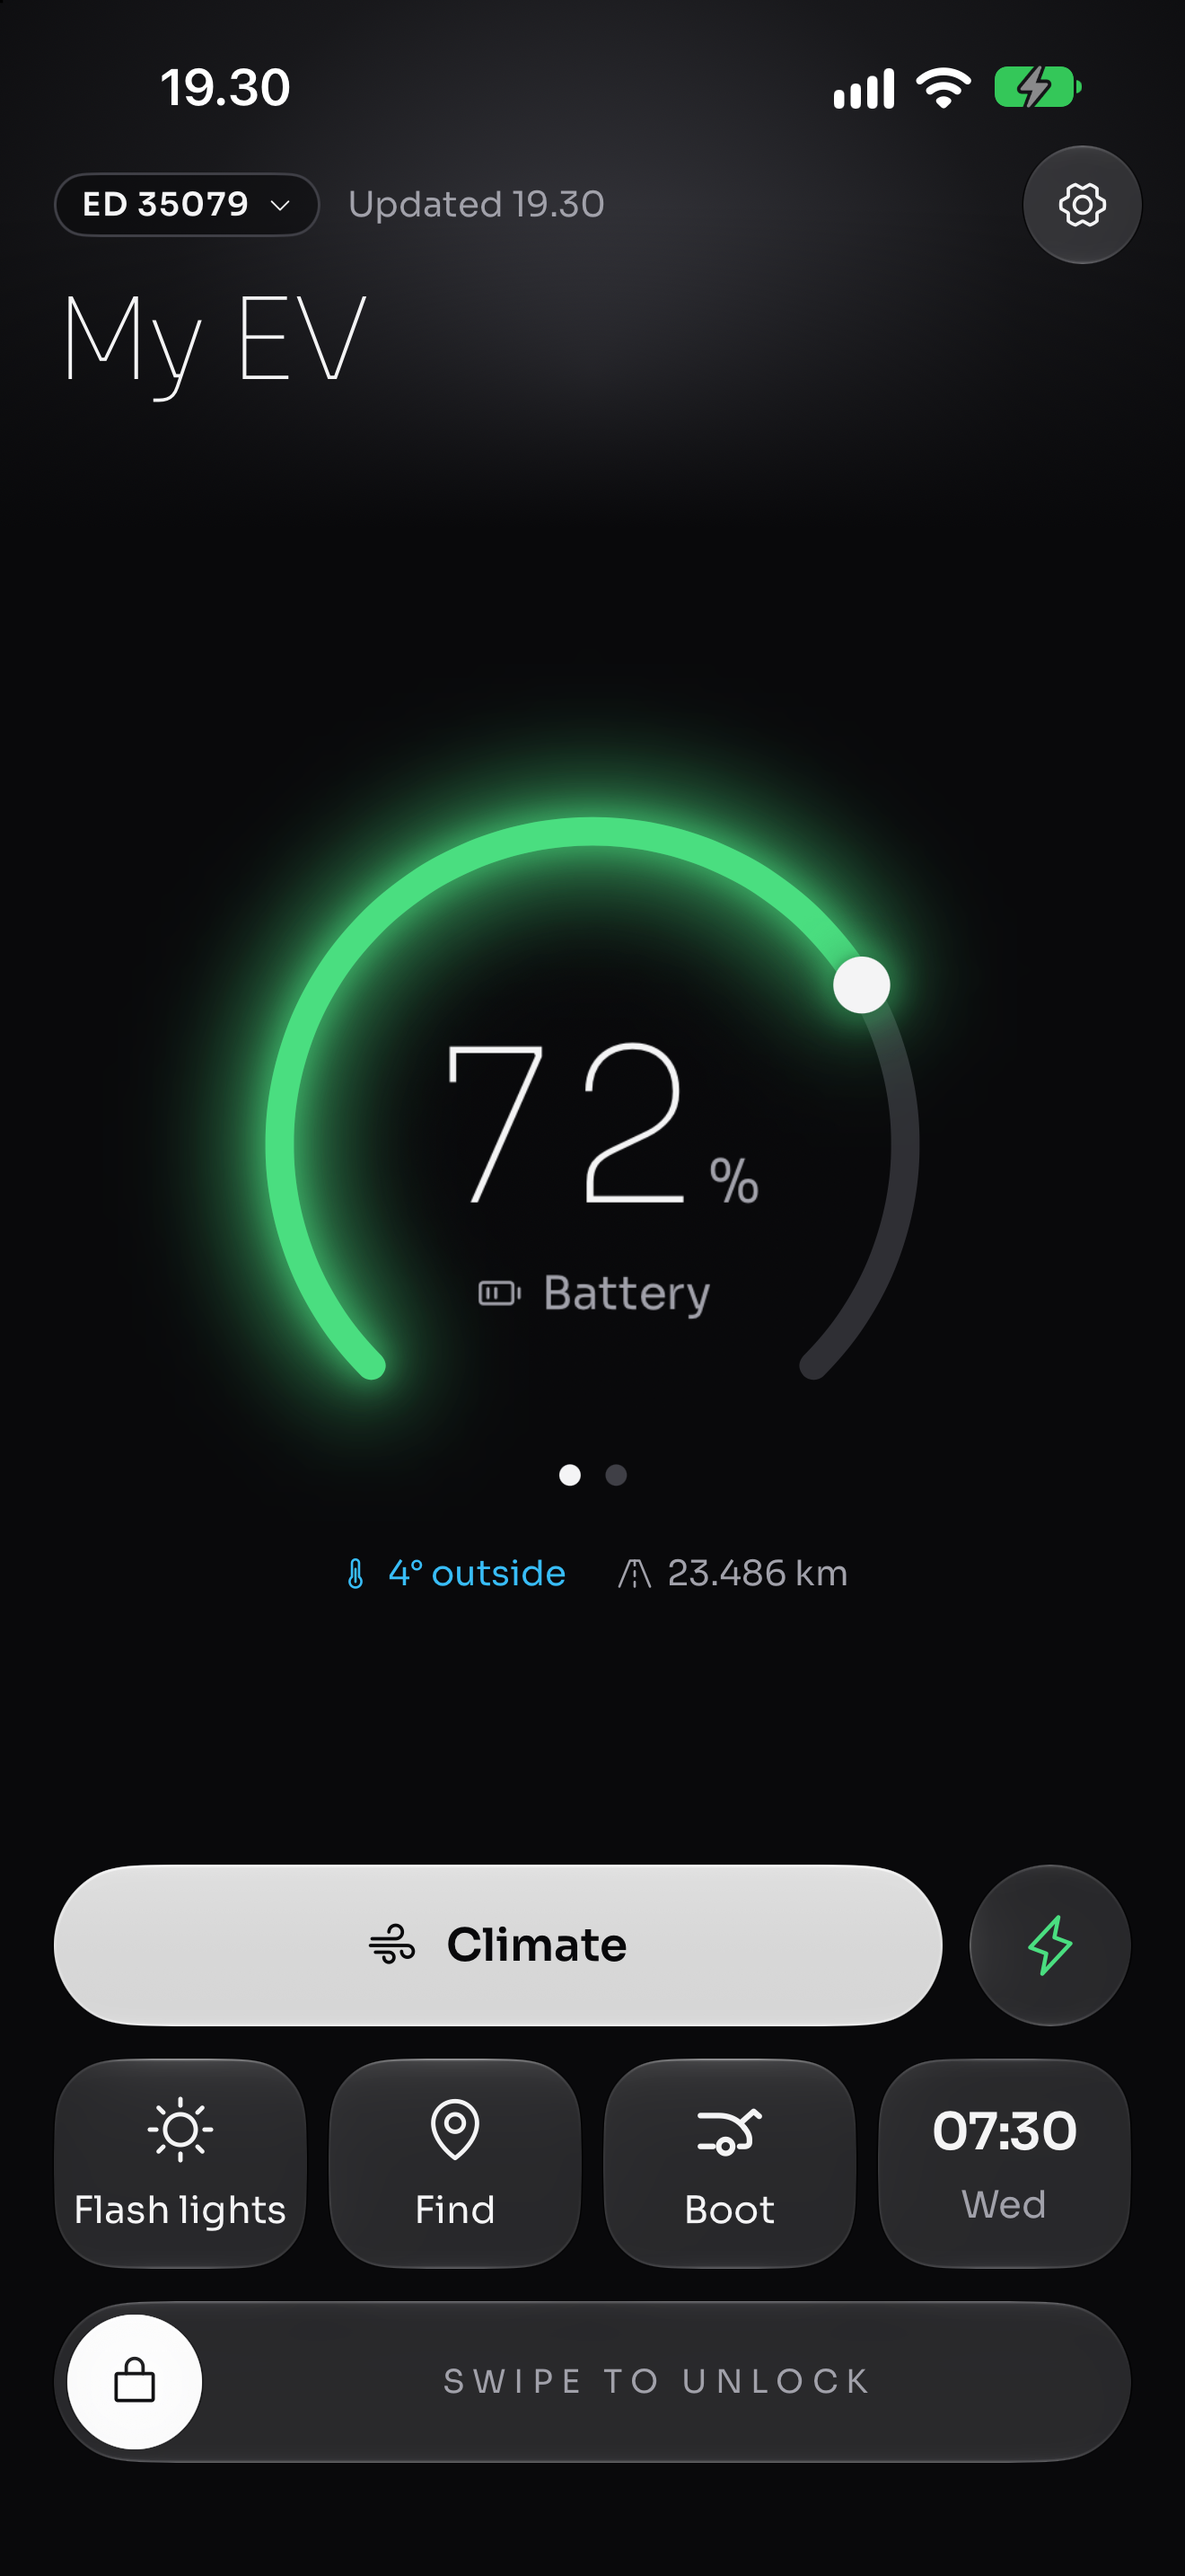
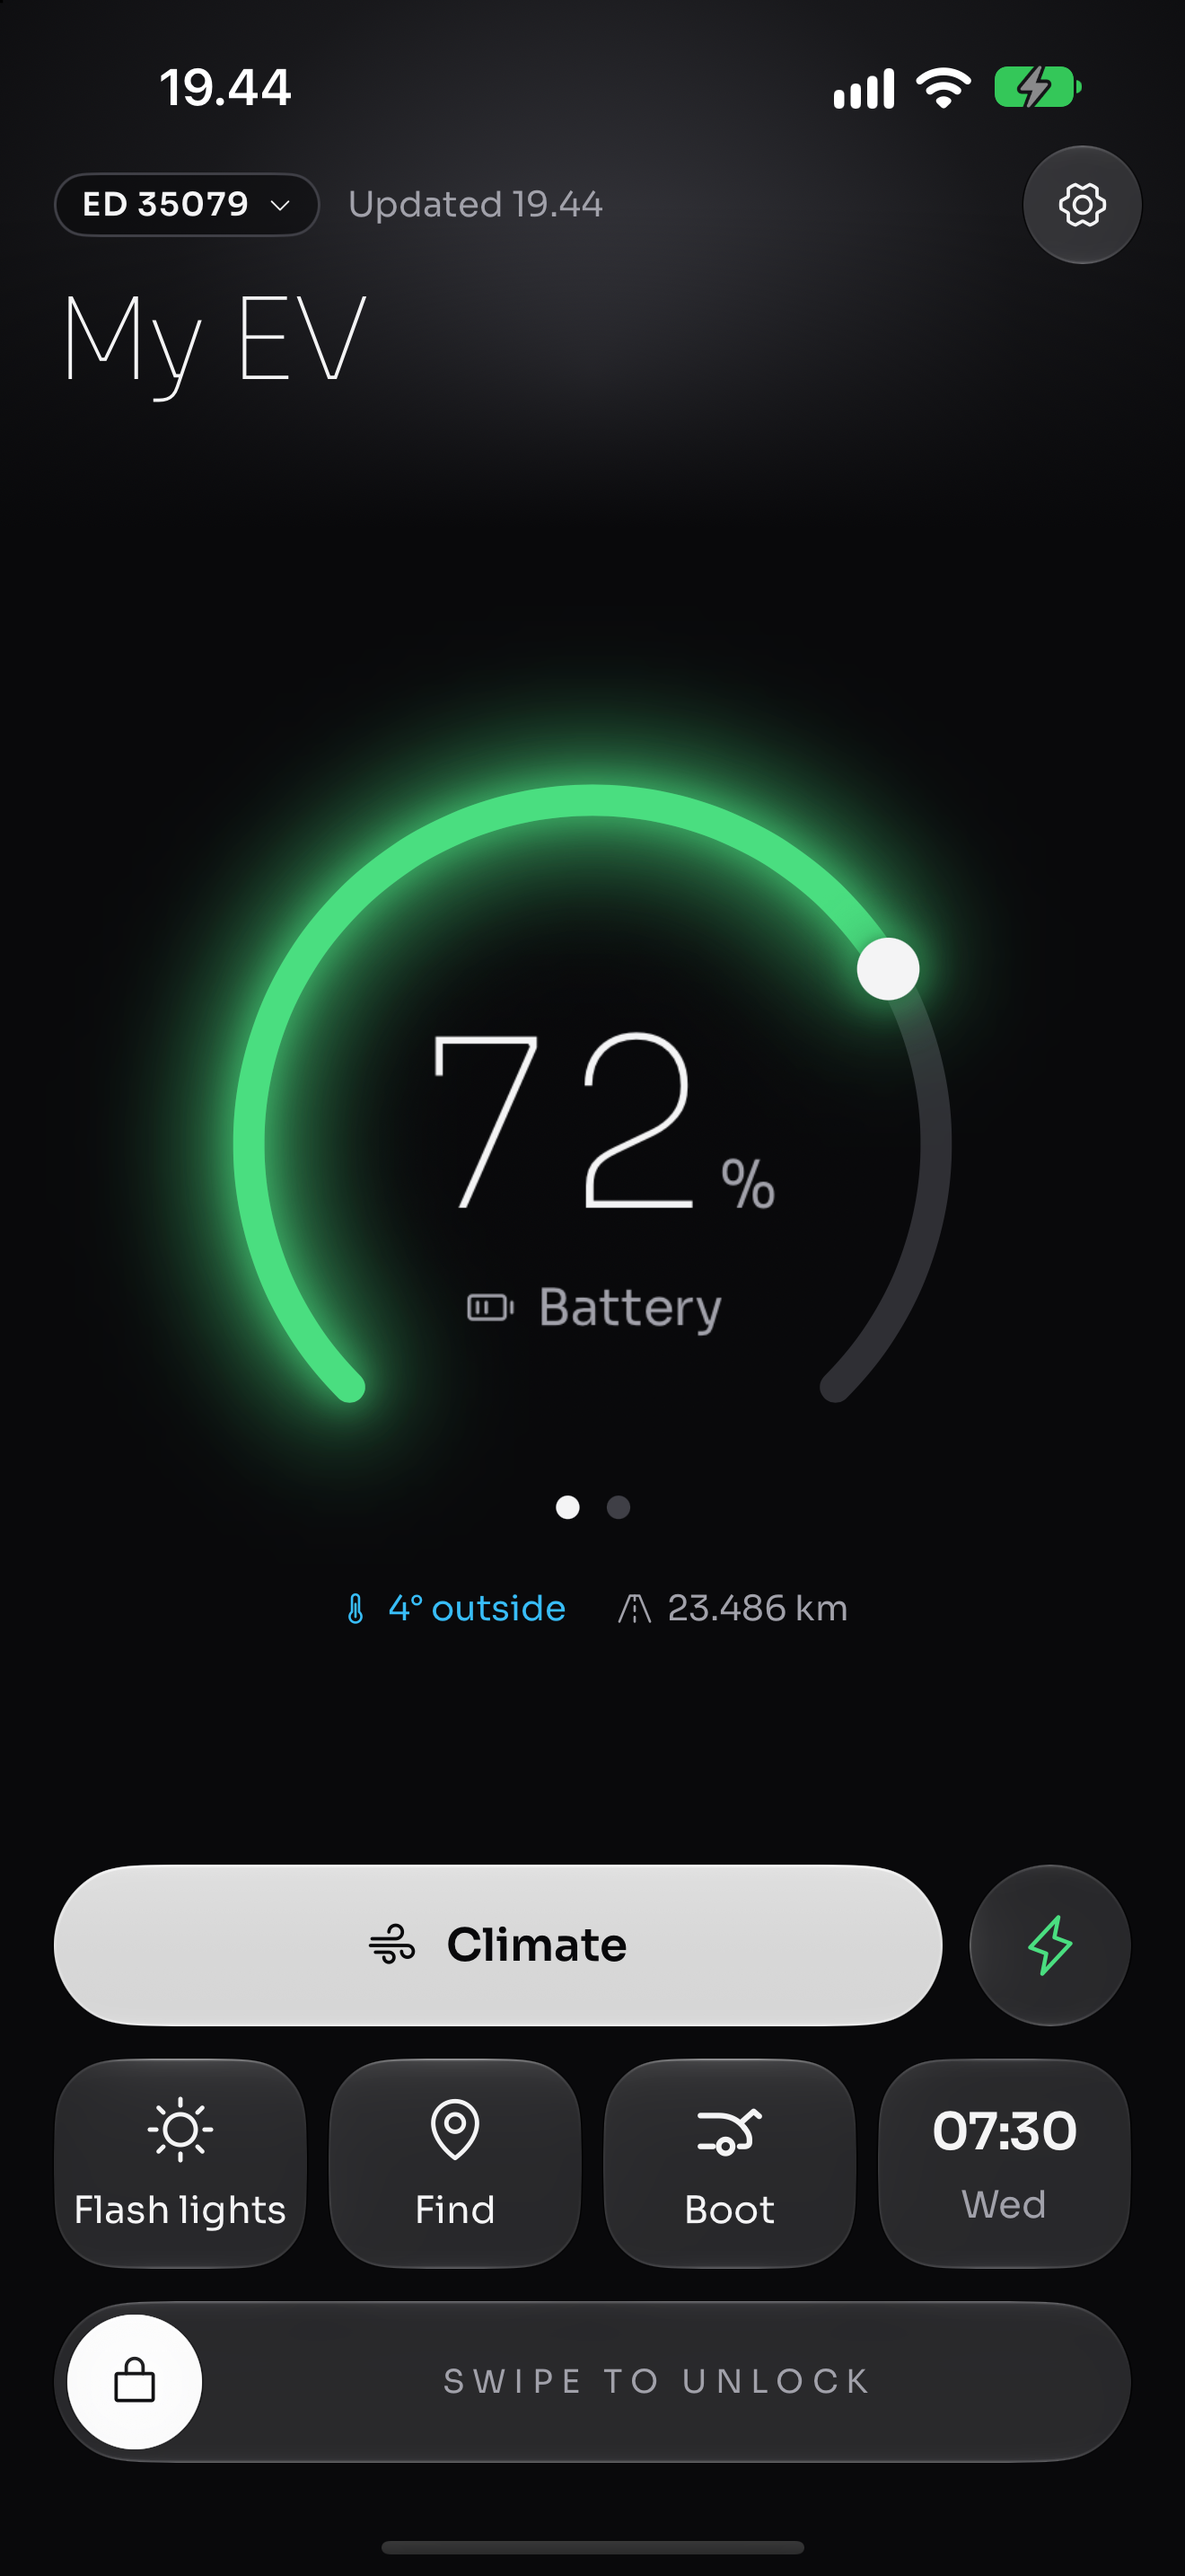
Larger gauge; the schedule screen shows only Luft's own schedules
The gauge grows up to 45 % where the screen has room. The car's own timers (charging and
climate, read from and written to the car) are gone from the schedule screen and the model;
the command-line tool still reads them. Store text and screenshots updated.

diff --git a/FiatPreheat/Varme/ScheduleSheet.swift b/FiatPreheat/Varme/ScheduleSheet.swift
@@ -7,15 +7,12 @@ import SwiftUI
 struct ScheduleSheet: View {
     @Environment(CarModel.self) private var model
     @Environment(\.dismiss) private var dismiss
-    /// Which step shows. The editors work on their own copies (`draft`, `timerDraft`), which are
-    /// never empty, so a step sliding away can't read a value that's already gone.
-    private enum Page { case list, schedule, timer }
+    /// Which step shows. The editor works on its own copy (`draft`), which is never empty, so a
+    /// step sliding away can't read a value that's already gone.
+    private enum Page { case list, schedule }
     @State private var page: Page = .list
     @State private var draft = PreheatSchedule()
     @State private var isNew = false
-    @State private var timerDraft = CarTimer.placeholder
-    @State private var savingTimer: Int?
-    @State private var timerError: String?
 
     /// With no schedules yet the sheet opens straight on a new one, decided before it appears so
     /// nothing slides in sideways as it rises.
@@ -36,20 +33,14 @@ struct ScheduleSheet: View {
                                onDelete: { delete($0) },
                                onClose: { model.schedules.isEmpty ? dismiss() : close() })
                     .transition(.move(edge: .trailing).combined(with: .opacity))
-            case .timer:
-                CarTimerEditor(timer: $timerDraft, saving: savingTimer != nil,
-                               onSave: { saveTimer($0) },
-                               onClose: { close() })
-                    .transition(.move(edge: .trailing).combined(with: .opacity))
             case .list:
                 list.transition(.move(edge: .leading).combined(with: .opacity))
             }
         }
         .animation(.timingCurve(0.2, 0.8, 0.2, 1, duration: 0.4), value: page)
         .background(V.surface.ignoresSafeArea())
-        // One height for every step, so the sheet doesn't jump while it opens or as timers load.
+        // One height for every step, so the sheet doesn't jump while it opens.
         .varmeSheet([.large])
-        .task { await model.loadCarTimers() }
     }
 
     // MARK: List
@@ -72,43 +63,11 @@ struct ScheduleSheet: View {
             .padding(.horizontal, V.gutter)
             .padding(.top, 20)
 
-            if let timers = model.carTimers?.timers, !timers.isEmpty {
-                VStack(alignment: .leading, spacing: 10) {
-                    Text("In the car").eyebrowStyle().padding(.leading, 4)
-                    ForEach(timers) { timer in
-                        CarTimerRow(timer: timer, saving: savingTimer == timer.id,
-                                    isOn: Binding(get: { timer.isOn }, set: { on in
-                                        var changed = timer; changed.isOn = on; saveTimer(changed, close: false)
-                                    })) { timerDraft = timer; page = .timer }
-                    }
-                    if let timerError {
-                        Text(timerError).font(V.label).foregroundStyle(V.danger).padding(.leading, 4)
-                    }
-                }
-                .padding(.horizontal, V.gutter)
-                .padding(.top, 24)
-            }
-
             Spacer(minLength: 0)
             VButton(title: "Add schedule", icon: "plus", glass: true) { add() }
                 .padding(.horizontal, V.gutter)
                 .padding(.top, 20)
                 .padding(.bottom, 24)
-        }
-    }
-
-    /// Writes a timer to the car; the switch shows a spinner until the car confirms.
-    private func saveTimer(_ timer: CarTimer, close: Bool = true) {
-        savingTimer = timer.id
-        timerError = nil
-        Task {
-            let result = await model.saveCarTimer(timer)
-            savingTimer = nil
-            switch result {
-            case .failed(let message): timerError = message; Haptics.notify(.error)
-            case .done(_, .failed, _): timerError = "The car didn't accept the change."; Haptics.notify(.error)
-            default: Haptics.notify(.success); if close { page = .list }
-            }
         }
     }
 
@@ -257,97 +216,5 @@ private struct ScheduleEditor: View {
                 draft.readyMinute = parts.minute ?? draft.readyMinute
             }
         )
-    }
-}
-
-/// One of the car's own timers in the list: what it does, when, and its switch.
-private struct CarTimerRow: View {
-    let timer: CarTimer
-    let saving: Bool
-    @Binding var isOn: Bool
-    let edit: () -> Void
-
-    var body: some View {
-        HStack(spacing: 12) {
-            PhIcon(name: timer.kind == .charge ? "lightning" : "wind", size: 18)
-                .foregroundStyle(isOn ? V.text : V.textFaint)
-            VStack(alignment: .leading, spacing: 2) {
-                Text(timer.timeText).font(V.sora(22, .light)).foregroundStyle(isOn ? V.text : V.textFaint).monospacedDigit()
-                Text("\(timer.title) · \(timer.daysText.isEmpty ? "No days" : timer.daysText)").font(V.label).foregroundStyle(V.textMuted).lineLimit(1)
-            }
-            Spacer(minLength: 8)
-            if saving { ProgressView().tint(V.text).frame(width: 51) } else { VSwitch(isOn: $isOn) }
-            PhIcon(name: "caret-right", size: 14).foregroundStyle(V.textFaint)
-        }
-        .padding(.leading, 18).padding(.trailing, 16)
-        .contentShape(Rectangle())
-        .onTapGesture(perform: edit)
-        .accessibilityAction(named: "Edit", edit)
-        .frame(height: 78)
-        .background(RoundedRectangle(cornerRadius: V.radiusCard, style: .continuous).fill(V.raised))
-    }
-}
-
-/// Editing one of the car's timers: start (and end, for charging), days, on/off. Saved to the car.
-private struct CarTimerEditor: View {
-    @Binding var timer: CarTimer
-    let saving: Bool
-    let onSave: (CarTimer) -> Void
-    let onClose: () -> Void
-
-    var body: some View {
-        VStack(spacing: 0) {
-            VSheetHeader(eyebrow: "In the car", title: timer.title, onClose: onClose)
-            VStack(spacing: 12) {
-                HStack(spacing: 10) {
-                    wheel(timer.endHour == nil ? "At" : "From", hour: $timer.startHour, minute: $timer.startMinute)
-                    if timer.endHour != nil {
-                        wheel("Until", hour: Binding(get: { timer.endHour ?? 0 }, set: { timer.endHour = $0 }),
-                              minute: Binding(get: { timer.endMinute ?? 0 }, set: { timer.endMinute = $0 }))
-                    }
-                }
-                HStack(spacing: 0) {
-                    ForEach(PreheatSchedule.weekOrder, id: \.self) { day in
-                        if day != PreheatSchedule.weekOrder.first { Spacer(minLength: 4) }
-                        let on = timer.weekdays.contains(day)
-                        Button {
-                            Haptics.select()
-                            if on { timer.weekdays.remove(day) } else { timer.weekdays.insert(day) }
-                        } label: {
-                            Text(String(Calendar.current.veryShortWeekdaySymbols[day - 1]))
-                                .font(on ? V.sora(14, .semibold) : V.sora(14))
-                                .foregroundStyle(on ? V.ground : V.textMuted)
-                                .frame(width: 46, height: 46)
-                                .background(Circle().fill(on ? V.text : V.raised))
-                        }
-                        .buttonStyle(PressStyle())
-                        .accessibilityLabel(Calendar.current.weekdaySymbols[day - 1])
-                    }
-                }
-                VSwitchRow(title: timer.isOn ? "On" : "Off", isOn: $timer.isOn)
-            }
-            .padding(.horizontal, V.gutter)
-            .padding(.top, 20)
-            Spacer(minLength: 0)
-            VButton(title: saving ? "Sending to the car…" : "Save to car", loading: saving, glass: true) { onSave(timer) }
-                .allowsHitTesting(!saving)
-                .padding(.horizontal, V.gutter)
-                .padding(.top, 20).padding(.bottom, 24)
-        }
-    }
-
-    private func wheel(_ label: String, hour: Binding<Int>, minute: Binding<Int>) -> some View {
-        VStack(alignment: .leading, spacing: 0) {
-            Text(label).font(V.label).foregroundStyle(V.textMuted).padding(.leading, 18).padding(.top, 14)
-            DatePicker(label, selection: Binding(
-                get: { Calendar.current.date(bySettingHour: hour.wrappedValue, minute: minute.wrappedValue, second: 0, of: Date()) ?? Date() },
-                set: { d in
-                    let c = Calendar.current.dateComponents([.hour, .minute], from: d)
-                    hour.wrappedValue = c.hour ?? 0; minute.wrappedValue = c.minute ?? 0
-                }), displayedComponents: .hourAndMinute)
-                .datePickerStyle(.wheel).labelsHidden().colorScheme(.dark)
-                .frame(maxWidth: .infinity).frame(height: 160).clipped()
-        }
-        .background(RoundedRectangle(cornerRadius: 24, style: .continuous).fill(V.raised))
     }
 }

diff --git a/FiatPreheat/App/CarModel.swift b/FiatPreheat/App/CarModel.swift
@@ -76,9 +76,6 @@ final class CarModel {
         let full = max(bestFullRangeKm ?? 0, km * 100 / soc)
         return full > 0 ? min(1, km / full) : soc / 100
     }
-    /// The car's own timers, once read.
-    private(set) var carTimers: CarTimers?
-    private(set) var carTimersError: String?
     var ownerName: String? {
         didSet { defaults.set(ownerName, forKey: Keys.ownerName) }
     }
@@ -180,7 +177,6 @@ final class CarModel {
     private func loadCarSettings() {
         plate = defaults.string(forKey: carKey(Keys.plate)) ?? ""
         carName = defaults.string(forKey: carKey(Keys.carName)) ?? vehicle.map { $0.nickname ?? $0.model ?? "My car" } ?? "My car"
-        carTimers = nil
         location = nil
         status = Self.savedStatus(selectedVIN, defaults)
     }
@@ -402,39 +398,6 @@ final class CarModel {
         if Demo.isActive { status = Demo.status; return }
         await refreshStatus()
         await loadLocation()
-    }
-
-    // MARK: The car's own timers
-
-    func loadCarTimers() async {
-        guard hasAccount, let vin = selectedVIN else { return }
-        if Demo.isActive { carTimers = CarTimers(reply: Demo.carTimers); return }
-        await client.setAccount(account)
-        do {
-            carTimers = CarTimers(reply: try await client.carSchedules(vin: vin))
-            carTimersError = carTimers == nil ? "This car has no timers to show." : nil
-        } catch {
-            carTimersError = error.localizedDescription
-        }
-    }
-
-    /// Writes one changed timer to the car and waits for it to confirm.
-    func saveCarTimer(_ timer: CarTimer) async -> CommandState {
-        guard var timers = carTimers, let vin = selectedVIN else { return .failed("Timers not loaded.") }
-        timers.update(timer)
-        let before = carTimers
-        carTimers = timers
-        if Demo.isActive { return .done(.preconditionOn, .succeeded, Date()) }
-        await client.setAccount(account)
-        do {
-            let id = try await client.setCarSchedules(vin: vin, body: timers.body)
-            let result = await client.waitForResult(vin: vin, correlationId: id)
-            if result == .failed { carTimers = before }
-            return .done(.preconditionOn, result, Date())
-        } catch {
-            carTimers = before
-            return .failed(error.localizedDescription)
-        }
     }
 
     // MARK: Trips

diff --git a/FiatPreheat/App/Demo.swift b/FiatPreheat/App/Demo.swift
@@ -26,13 +26,6 @@ enum Demo {
     static let petrolServices = ["RDL", "RDU", "HBLF", "ROLIFTGATEUNLOCK", "ROLIFTGATELOCK", "VF"]
     /// A second car, to show switching.
     static let vehicles = [vehicle, Vehicle(vin: "ZARNAAG00R0000000", nickname: nil, model: "Alfa Romeo Junior Elettrica", services: RemoteCommand.allCases.map(\.rawValue))]
-    /// The car's own timers, in the shape Fiat sends them.
-    static let carTimers: [String: Any] = ["schedules": [
-        ["scheduleType": "CHARGE", "startTime": "00:30", "endTime": "06:00", "enableScheduleType": true, "repeatSchedule": true,
-         "scheduledDays": ["monday": true, "tuesday": true, "wednesday": true, "thursday": true, "friday": true, "saturday": false, "sunday": false]],
-        ["scheduleType": "CLIMATE", "startTime": "07:10", "enableScheduleType": false, "repeatSchedule": true,
-         "scheduledDays": ["monday": true, "tuesday": true, "wednesday": true, "thursday": true, "friday": true, "saturday": false, "sunday": false]],
-    ]]
     static var trips: [Trip] {
         let day: TimeInterval = 86_400
         return [

diff --git a/FiatPreheat/Varme/HomeScreen.swift b/FiatPreheat/Varme/HomeScreen.swift
@@ -20,10 +20,10 @@ struct HomeScreen: View {
     /// the gaps and a little air above the home indicator.
     private static let aroundGauge: CGFloat = heroHeight + 20 + 60 + 78 + 60 + V.cardGap * 6 + 8
 
-    /// The gauge grows into the room the screen has, up to a third larger; smaller iPhones get it
+    /// The gauge grows into the room the screen has, up to 45 % larger; smaller iPhones get it
     /// a little smaller than natural rather than pushing the slider off the screen.
     private static func gaugeScale(screenHeight: CGFloat) -> CGFloat {
-        min(1.32, max(0.85, (screenHeight - aroundGauge - 16) / (gaugeHeight + 5)))
+        min(1.45, max(0.85, (screenHeight - aroundGauge - 16) / (gaugeHeight + 5)))
     }
 
     /// How far to pull before letting go refreshes.

diff --git a/AppStore/listing.md b/AppStore/listing.md
@@ -29,7 +29,7 @@ CLIMATE
 One tap warms or cools the car to the temperature last set inside it, and a live countdown shows on the Lock Screen and in the Dynamic Island. The temperature outside the car is right there to help you decide. Stop it any time, even while the car is still answering.
 
 SCHEDULES
-Set "ready by 07:30 on weekdays" and Luft starts the climate in time. Make as many as you need, for weekdays and weekends, and switch the car's own charging and climate timers on or off.
+Set "ready by 07:30 on weekdays" and Luft starts the climate in time. Make as many as you need, for weekdays and weekends.
 
 BATTERY AND RANGE
 A clear gauge shows charge and range, coloured by how much is left. Swipe between them; pull down to refresh.
